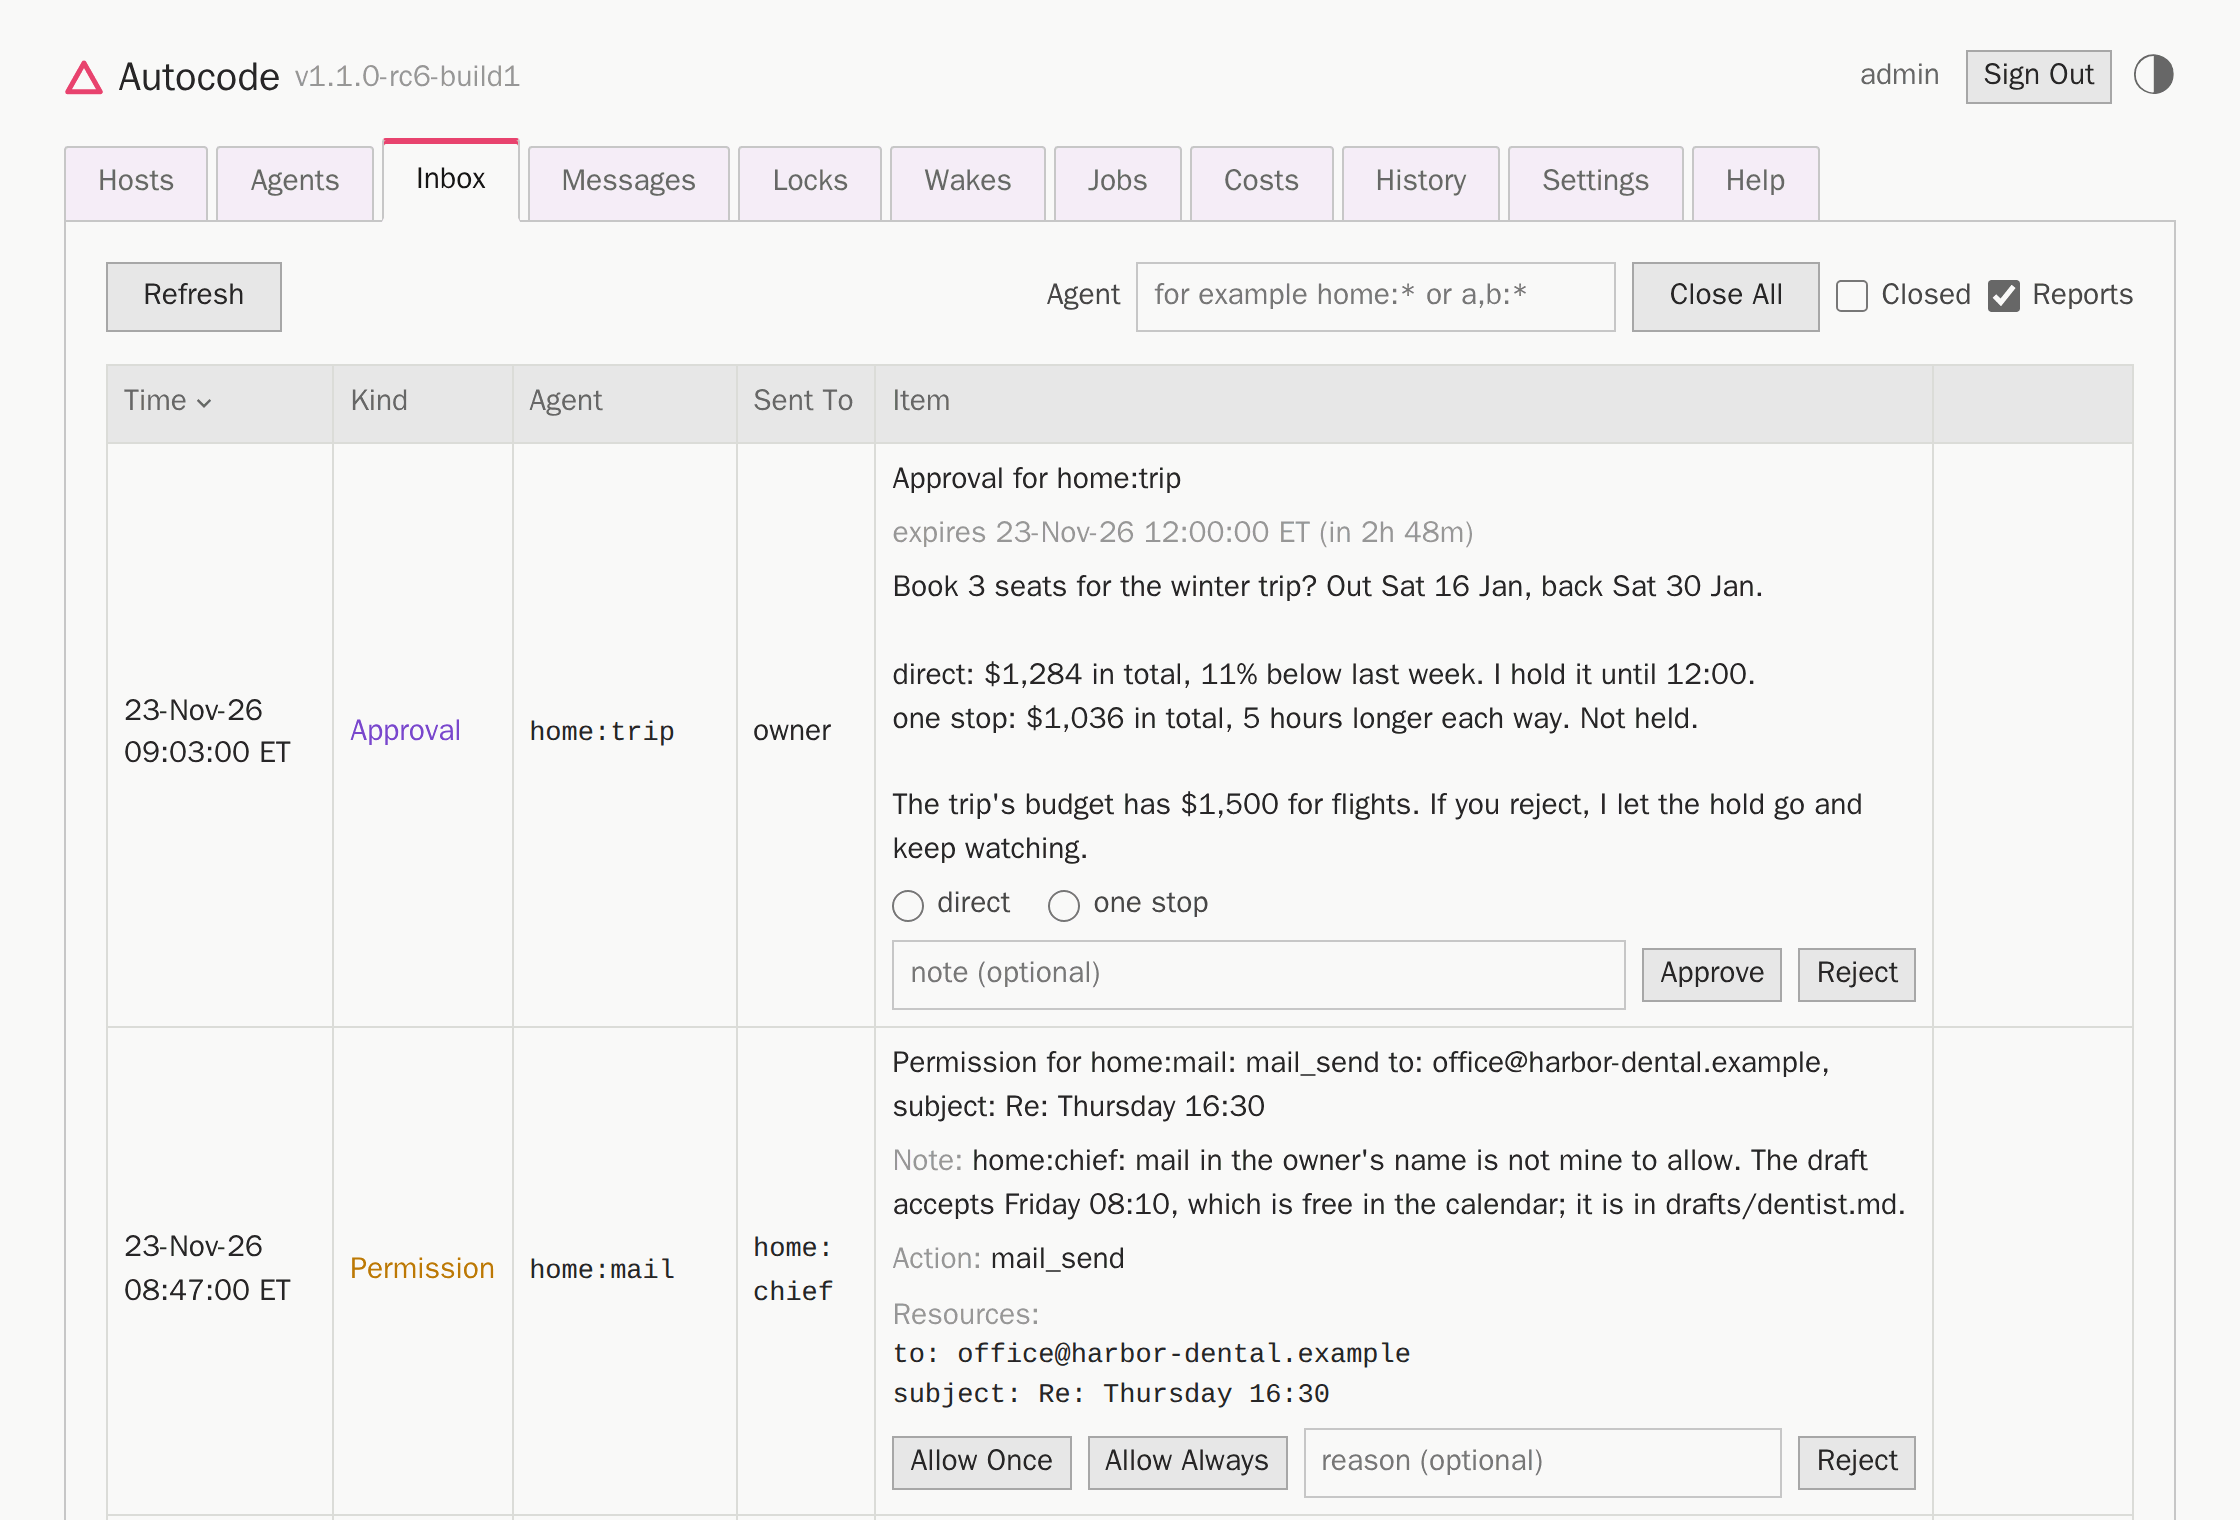
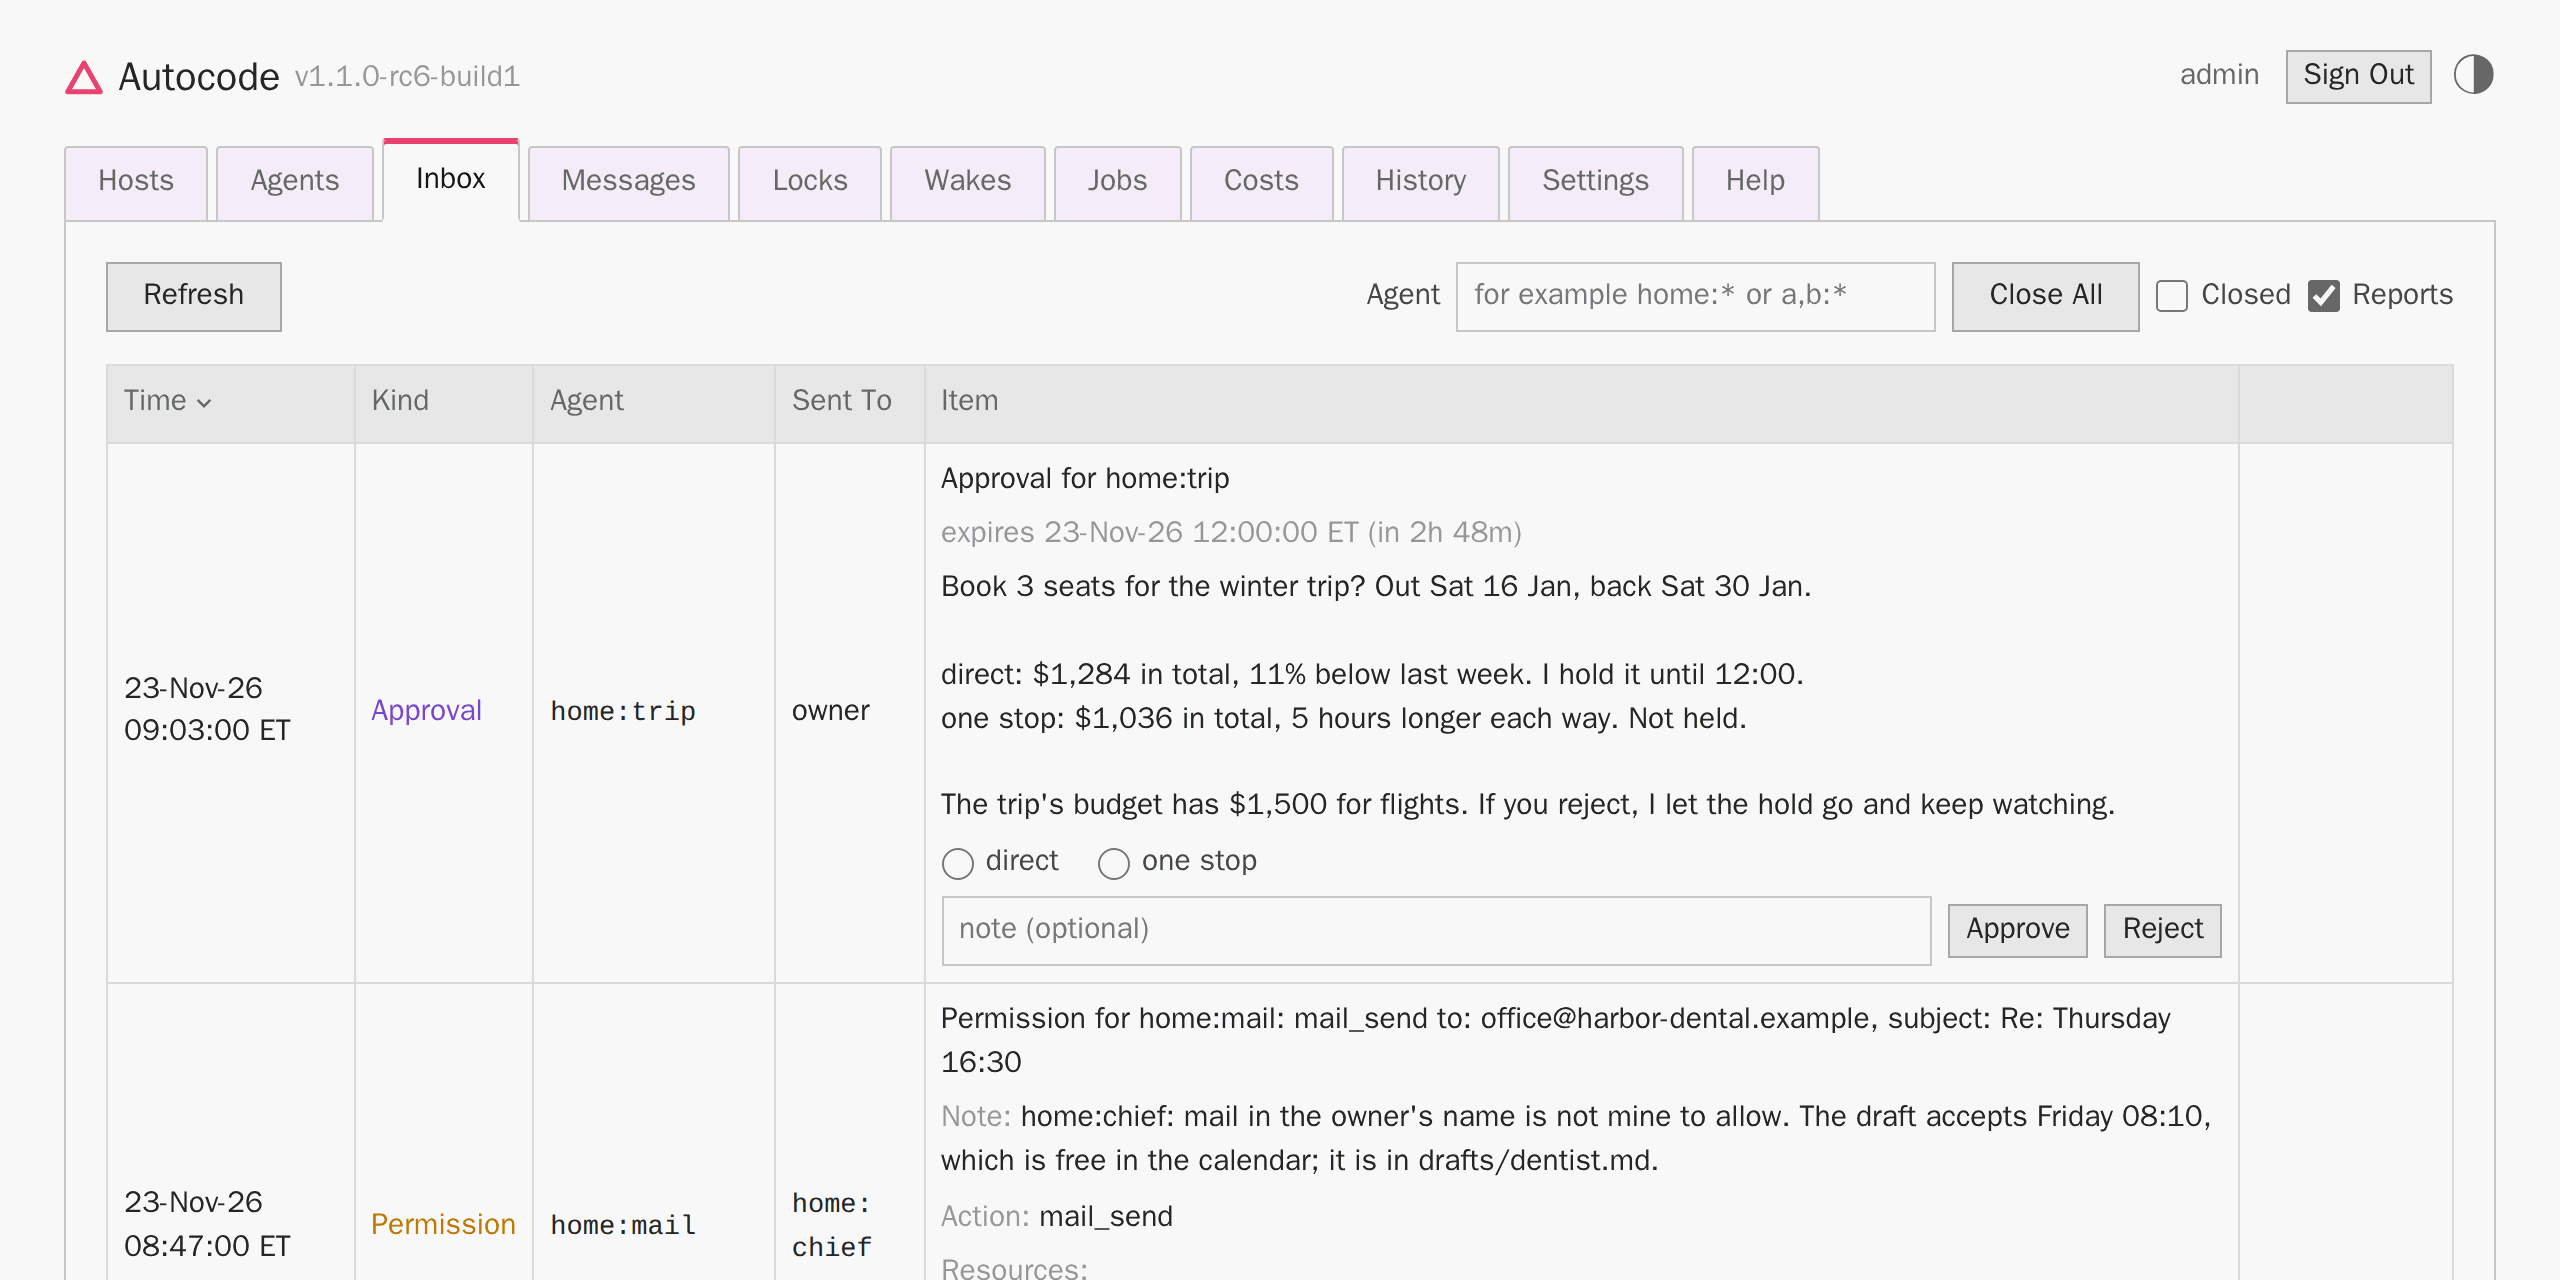
Make the README's pictures 2:1 and show more agents in the GIF

diff --git a/README.md b/README.md
@@ -79,8 +79,8 @@ check, a shell command, the check skips the wake when there is nothing to do, at
     <picture>
       <source media="(prefers-color-scheme: dark)" srcset="media/wakes-dark.png">
       <img src="media/wakes-light.png" alt="The Wakes tab of the demo: each agent's wakes with their triggers, such as
-every 30 minutes or when idle for 10 minutes, the next run, the text the agent is told, the check, and the cost of the
-last 7 days.">
+every 6 hours or every 30 minutes, the next run, the text the agent is told, the check, and the cost of the last 7
+days.">
     </picture>
   </a>
 </p>
@@ -92,7 +92,7 @@ agent is paused when its turn ends and your Inbox gets an alert. Here one agent 
   <a href="https://myurasov.github.io/Autocode/#/costs">
     <picture>
       <source media="(prefers-color-scheme: dark)" srcset="media/costs-dark.png">
-      <img src="media/costs-light.png" alt="The Costs tab of the demo: every agent with its status, today's spend, its
+      <img src="media/costs-light.png" alt="The Costs tab of the demo: agents with their status, today's spend, the
 daily cap with the share used, the last 7 days as bars, and the total. One agent is paused at 100.3% of its cap.">
     </picture>
   </a>
